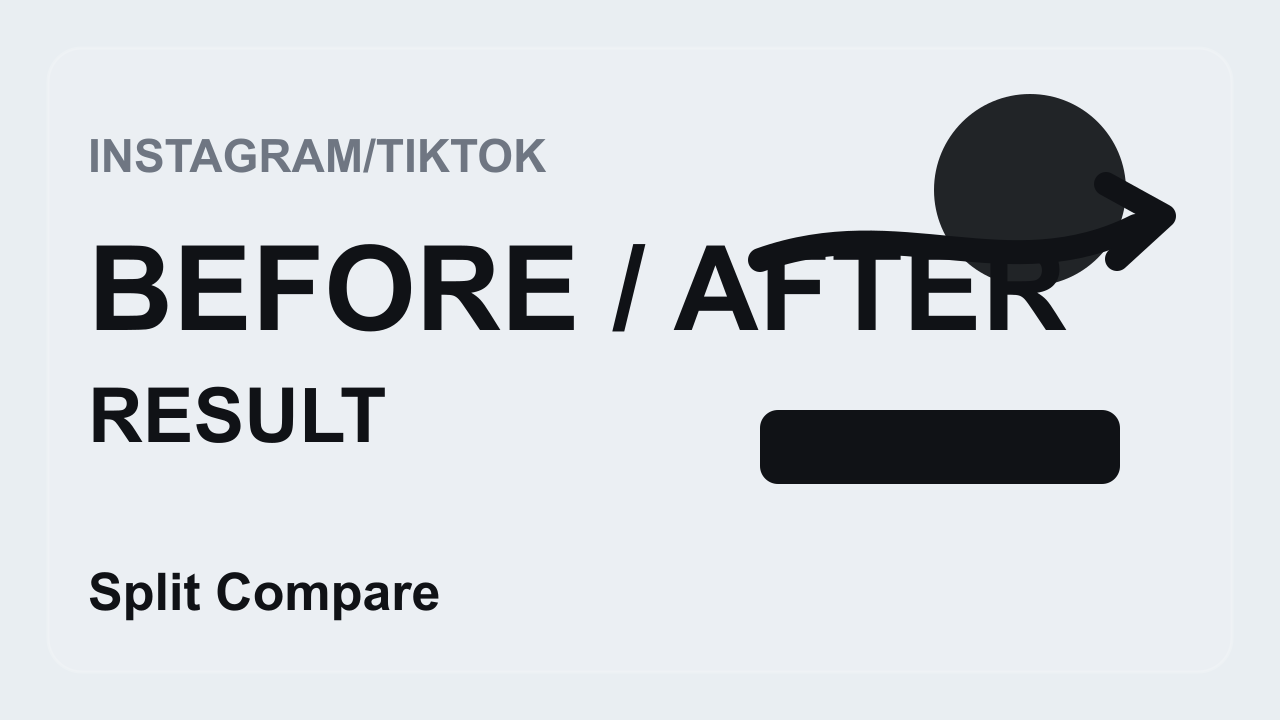
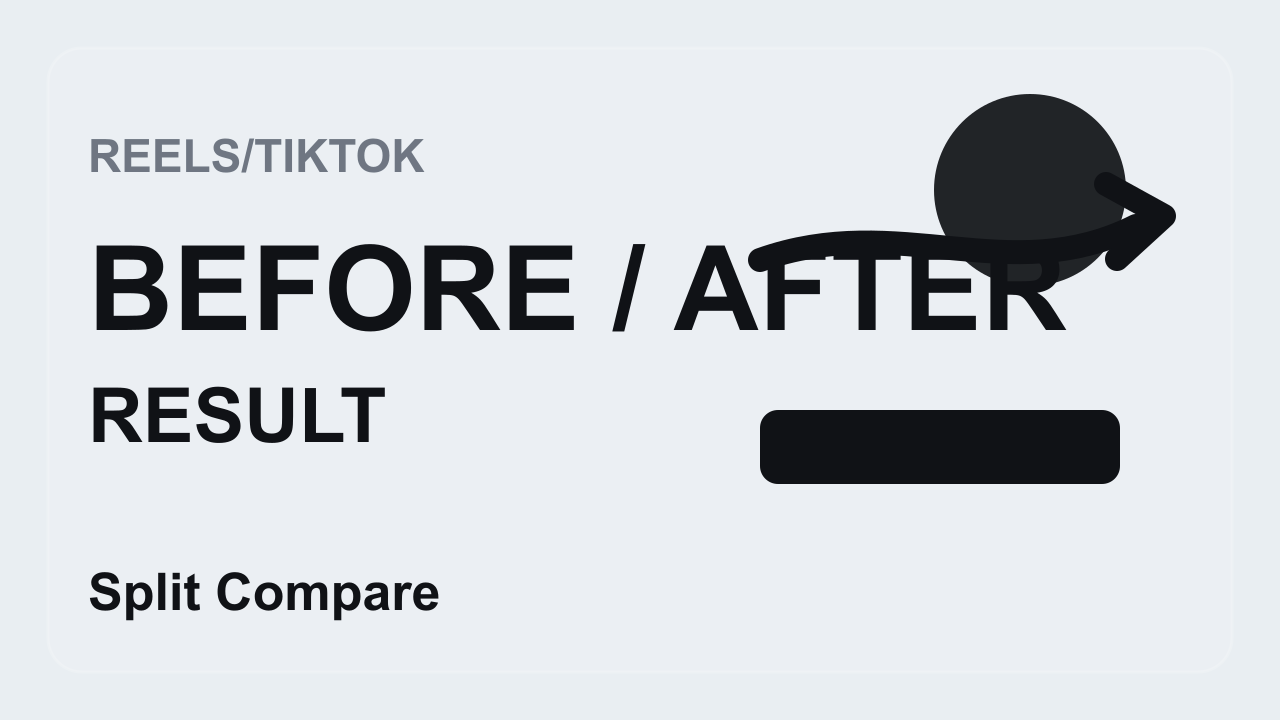
Use uploaded YouTube references as bot previews

Changed region(s): [[0.0625, 0.1833, 0.4375, 0.2444]]

diff --git a/packages/domain/src/templates.ts b/packages/domain/src/templates.ts
@@ -1,4 +1,5 @@
 import type { ProjectPlatform } from "./types.js";
+import { YOUTUBE_STYLE_PROFILES } from "./youtubeStyleProfiles.js";
 
 export type TemplateDefinition = {
   slug: string;
@@ -9,61 +10,50 @@ export type TemplateDefinition = {
   sortOrder: number;
 };
 
+const youtubeReferenceTemplates: TemplateDefinition[] = YOUTUBE_STYLE_PROFILES.map((profile, index) => ({
+  slug: profile.slug,
+  title: profile.title,
+  platform: "YOUTUBE",
+  previewImageUrl: `templates/${profile.slug}.png`,
+  promptRules: [
+    profile.semanticMechanic,
+    `Layout: ${profile.composition.layout}`,
+    `Text: ${profile.textSystem.role} ${profile.textSystem.placement} ${profile.textSystem.typography}`,
+    `Visual rules: ${profile.visualRules.join("; ")}`,
+    `Prompt rules: ${profile.promptRules.join("; ")}`,
+    `Avoid: ${profile.negativeRules.join("; ")}`
+  ].join("\n"),
+  sortOrder: (index + 1) * 10
+}));
+
 export const DEFAULT_TEMPLATES: TemplateDefinition[] = [
+  ...youtubeReferenceTemplates,
   {
     slug: "faceless-pov",
     title: "Faceless POV",
     platform: "FACELESS",
     promptRules: "First-person perspective, strong foreground action, large emotional text, creator face is not needed.",
-    sortOrder: 10
-  },
-  {
-    slug: "split-text",
-    title: "Split Text",
-    platform: "YOUTUBE",
-    promptRules: "Big text block on one side, visual proof or object on the other side, very high contrast.",
-    sortOrder: 20
-  },
-  {
-    slug: "double-focus-arrow",
-    title: "Double Focus Arrow",
-    platform: "YOUTUBE",
-    promptRules: "Two focal objects connected by a bold arrow; make the relationship instantly understandable.",
-    sortOrder: 30
+    sortOrder: 210
   },
   {
     slug: "foreground-focus",
     title: "Foreground Focus",
     platform: "INSTAGRAM_TIKTOK",
     promptRules: "One close foreground object, shallow depth, short headline, vertical-friendly composition.",
-    sortOrder: 40
+    sortOrder: 220
   },
   {
     slug: "center-object-text",
     title: "Center Object Text",
     platform: "FACELESS",
     promptRules: "Clean central object with text around it; minimal background; premium product-like composition.",
-    sortOrder: 50
-  },
-  {
-    slug: "skewed-hero-text",
-    title: "Skewed Hero Text",
-    platform: "YOUTUBE",
-    promptRules: "Large skewed cinematic text integrated into the scene, dramatic perspective and motion.",
-    sortOrder: 60
-  },
-  {
-    slug: "subject-circle-highlight",
-    title: "Subject Circle Highlight",
-    platform: "YOUTUBE",
-    promptRules: "Hidden or small subject highlighted with a red circle; mystery and discovery angle.",
-    sortOrder: 70
+    sortOrder: 230
   },
   {
     slug: "split-compare",
     title: "Split Compare",
     platform: "INSTAGRAM_TIKTOK",
     promptRules: "Before/after split screen, clear contrast, two labels, immediate transformation story.",
-    sortOrder: 80
+    sortOrder: 240
   }
 ];

diff --git a/packages/db/src/templates.ts b/packages/db/src/templates.ts
@@ -1,7 +1,14 @@
 import { DEFAULT_TEMPLATES, type ProjectPlatform, type TemplateDefinition } from "@covers/domain";
 import type { DbClient } from "./client.js";
 
+const legacyDefaultSlugs = ["split-text", "double-focus-arrow", "skewed-hero-text", "subject-circle-highlight"];
+
 export async function seedDefaultTemplates(db: DbClient, templates: TemplateDefinition[] = DEFAULT_TEMPLATES) {
+  await db.template.updateMany({
+    where: { slug: { in: legacyDefaultSlugs } },
+    data: { isActive: false }
+  });
+
   for (const template of templates) {
     await db.template.upsert({
       where: { slug: template.slug },